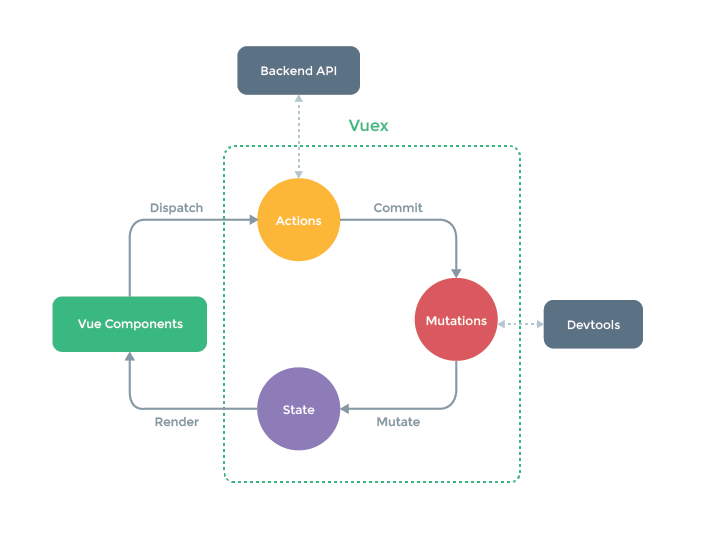
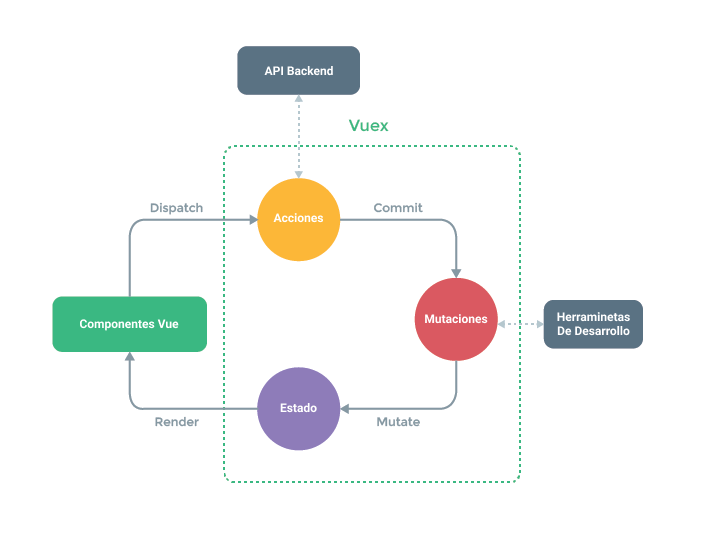
docs(intro): Translation of intro and images

diff --git a/docs/es/intro.md b/docs/es/intro.md
@@ -1,63 +1,65 @@
-# What is Vuex?
+# ¿Qué es Vuex?
 
-Vuex is a **state management pattern + library** for Vue.js applications. It serves as a centralized store for all the components in an application, with rules ensuring that the state can only be mutated in a predictable fashion. It also integrates with Vue's official [devtools extension](https://github.com/vuejs/vue-devtools) to provide advanced features such as zero-config time-travel debugging and state snapshot export / import.
+Vuex es un **patrón y librería para gestionar el estado** en aplicaciones creadas con Vue.js. Sirve como almacén al que pueden acceder todos los componentes de una aplicación, con normas de acceso que aseguran que el estado solo puede ser modificado de manera predecible. Así mismo, Vuex se integra con la [extensión de desarrollo](https://github.com/vuejs/vue-devtools) oficial de Vue para ofrecer herramientas avanzadas como 'viaje-temporal' de datos sin configuración previa ó importación/exportación de snapshots de estado.
 
-### What is a "State Management Pattern"?
+### ¿Qué es un "Patrón de Gestión de Estado"?
 
-Let's start with a simple Vue counter app:
+Empecemos con un sencillo contador creado con Vue:
 
 ``` js
 new Vue({
-  // state
+  // estado
   data () {
     return {
-      count: 0
+      contador: 0
     }
   },
-  // view
+  // vista
   template: `
-    <div>{{ count }}</div>
+    <div>{{ contador }}</div>
   `,
-  // actions
+  // acciones
   methods: {
-    increment () {
-      this.count++
+    incrementar () {
+      this.contador++
     }
   }
 })
 ```
 
-It is a self-contained app with the following parts:
+Es una aplicación auto-contenida con las siguientes partes:
 
-- The **state**, which is the source of truth that drives our app;
-- The **view**, which is just a declarative mapping of the **state**;
-- The **actions**, which are the possible ways the state could change in reaction to user inputs from the **view**.
+- El **estado**, fuente de 'verdad' que conduce nuestra aplicación;
+- La **vista**, un sencillo mapeo declarativo de nuestro **estado**;
+- Las **acciones**, las cuales muestras las posibles formas de modificar nuestro estado en reacción a eventos del usuario sobre la **vista**.
 
-This is an extremely simple representation of the concept of "one-way data flow":
+Ésta es una representación extremadamente sencilla del concepto de "flujo de datos unidireccional":
 
 <p style="text-align: center; margin: 2em">
   <img style="max-width:450px;" src="./images/flow.png">
 </p>
 
-However, the simplicity quickly breaks down when we have **multiple components that share common state**:
+Sin embargo, la sencillez se desvance rápidamente cuando tenemos **múltiples componentes que comparten estado**:
 
-- Multiple views may depend on the same piece of state.
-- Actions from different views may need to mutate the same piece of state.
+- Multiples vistas pueden depender de una misma parte del estado.
+- Acciones emitidas por distintas vistas pueden tratar de modificar una misma parte del estado.
 
-For problem one, passing props can be tedious for deeply nested components, and simply doesn't work for sibling components. For problem two, we often find ourselves resorting to solutions such as reaching for direct parent/child instance references or trying to mutate and synchronize multiple copies of the state via events. Both of these patterns are brittle and quickly lead to unmaintainable code.
+El primer problema se puede resolver de forma tediosa pasando propiedades (*props*) entre componentes para llegar a aquellos profundamente anidados, solución que no funciona para componentes que coexisten al mismo nivel. En cuanto al segundo problema, a menudo nos vemos recurriendo a soluciones como acceder direcamente a referencias de instancias de padres/hijos o tratando de modificar y sincronizar múltiples copias del estado por medio de eventos. Ambos patrones son fragiles y rápidamente generan código dificil de mantener.
 
-So why don't we extract the shared state out of the components, and manage it in a global singleton? With this, our component tree becomes a big "view", and any component can access the state or trigger actions, no matter where they are in the tree!
+¿Por qué no extraer todo el estado compartido y administrarlo como un singleton global? De esta forma nuestro árbol de componentes se convierte en una gran "vista" con acceso al estado y a acciones, sin importar donde esté el componente.
 
-In addition, by defining and separating the concepts involved in state management and enforcing certain rules, we also give our code more structure and maintainability.
+Adicionalmente, por medio de la definición y separación de conceptos involucrados en la gestión del estado e imponiendo ciertas reglas, le damos a nuestro código una estructura mejor definida y mantenible.
 
-This is the basic idea behind Vuex, inspired by [Flux](https://facebook.github.io/flux/docs/overview.html), [Redux](http://redux.js.org/) and [The Elm Architecture](https://guide.elm-lang.org/architecture/). Unlike the other patterns, Vuex is also a library implementation tailored specifically for Vue.js to take advantage of its granular reactivity system for efficient updates.
+Ésta es la idea básica detrás de Vuex, inspirada por [Flux](https://facebook.github.io/flux/docs/overview.html), [Redux](http://redux.js.org/) y [La Arquitectura Elm](https://guide.elm-lang.org/architecture/). A diferencia de otros patrones, Vuex también es una librería diseñada especificamente para Vue.js buscando sacarle el mayor partido a su sistema de reactividad granular para actualizaciones eficientes.
 
 ![vuex](./images/vuex.png)
 
-### When Should I Use It?
+### ¿Cuándo me conviene usar Vuex?
 
-Although Vuex helps us deal with shared state management, it also comes with the cost of more concepts and boilerplate. It's a trade-off between short term and long term productivity.
+A pesar de que Vuex nos ayuda en gran medida a gestionar estado compartido tiene un coste. Más conceptos, más código base, ... Es una compensación a hacer entre productividad a corto plazo y largo plazo.
 
 If you've never built a large-scale SPA and jump right into Vuex, it may feel verbose and daunting. That's perfectly normal - if your app is simple, you will most likely be fine without Vuex. A simple [global event bus](http://vuejs.org/v2/guide/components.html#Non-Parent-Child-Communication) may be all you need. But if you are building a medium-to-large-scale SPA, chances are you have run into situations that make you think about how to better handle state outside of your Vue components, and Vuex will be the natural next step for you. There's a good quote from Dan Abramov, the author of Redux:
 
-> Flux libraries are like glasses: you’ll know when you need them.
+Si nunca has desarrollado aplicaciones SPA de gran escala y decides apoyarte en Vuex es probable que lo consideres verboso y desalentador. Es perfectamente normal. Si tu aplicación es simple probablemente Vuex no te haga falta y un [bus global de eventos](http://vuejs.org/v2/guide/components.html#Non-Parent-Child-Communication) sea todo lo que necesites. Sin embargo, si estas desarrollando una aplicación SPA de media/gran escala es probable que te hayas topado con situaciones que te hagan pensar en como gestionar el estado de la app fuera de los componentes Vue que lo consumen. En ese caso incorporar Vuex es el paso natural a dar. Hay una cita muy buena de Dan Abramov, author de Redux, que dice:
+
+> Librerias Flux son como vasos: sabrás cuando las necesitas.

diff --git a/docs/es/SUMMARY.md b/docs/es/SUMMARY.md
@@ -2,10 +2,10 @@
 
 > Note: This is docs for vuex@2.x.
 
-- [Buscas la docu de Vuex 1.0?](https://github.com/vuejs/vuex/tree/1.0/docs)
+- [¿Buscas la docu de Vuex 1.0?](https://github.com/vuejs/vuex/tree/1.0/docs)
 - [Notas de versión](https://github.com/vuejs/vuex/releases)
 - [Instalación](installation.md)
-- [Qué es Vuex?](intro.md)
+- [¿Qué es Vuex?](intro.md)
 - [Empecemos](getting-started.md)
 - Conceptos Básicos
   - [Estado](state.md)
